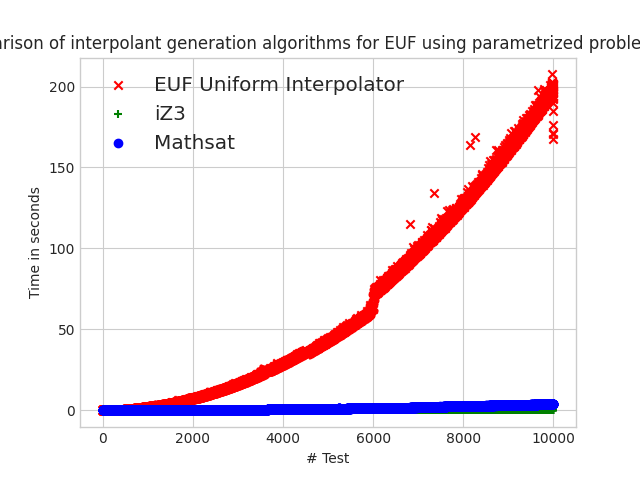
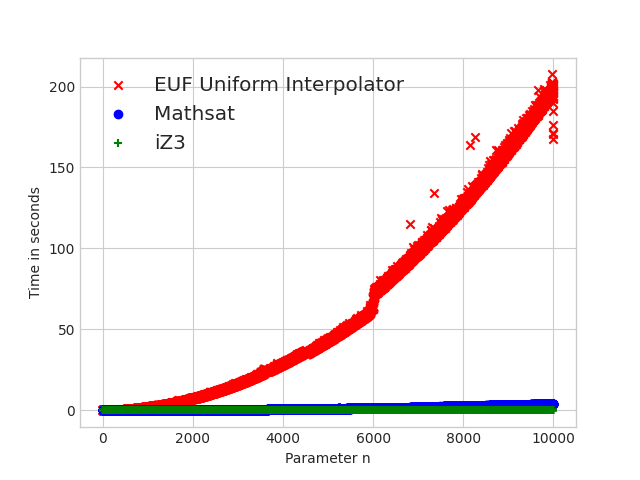
Update information about performance comparison graph in EUF.

diff --git a/Software/Cpp/EUFInterpolant/plotter.py b/Software/Cpp/EUFInterpolant/plotter.py
@@ -61,13 +61,45 @@ data_eufi = parse_info_chunks([
 
 fig, ax = plt.subplots()
 ax.scatter(steps, data_eufi, marker='x', color='red', label='EUF Uniform Interpolator')
-ax.scatter(steps, data_iz3, marker='+', color='green', label='iZ3')
 ax.scatter(steps, data_mathsat, marker='o', color='blue', label='Mathsat')
+ax.scatter(steps, data_iz3, marker='+', color='green', label='iZ3')
 
-ax.set_xlabel('# Test')
+ax.set_xlabel('Parameter n')
 ax.set_ylabel('Time in seconds')
-ax.set_title('Performance comparison of interpolant generation algorithms for EUF using parametrized problem from section 3.2.2.')
+# ax.set_title('Performance comparison of interpolant generation algorithms for EUF using parametrized problem from section 3.2.2.')
 
 legend = ax.legend(loc='upper left', shadow=True, fontsize='x-large')
 
 plt.savefig("results/eufi_performance_graph.png")
+
+fit_iz3_deg_2 = np.polyfit(steps, data_iz3, 2)
+fit_mathsat_deg_2 = np.polyfit(steps, data_mathsat, 2)
+fit_eufi_deg_2 = np.polyfit(steps, data_eufi, 2)
+fit_iz3_deg_1 = np.polyfit(steps, data_iz3, 1)
+fit_mathsat_deg_1 = np.polyfit(steps, data_mathsat, 1)
+fit_eufi_deg_1 = np.polyfit(steps, data_eufi, 1)
+
+print("Fit iz3 deg 2:")
+print(fit_iz3_deg_2)
+print("Error:")
+print(np.sum(np.polyval(fit_iz3_deg_2, steps)- data_iz3)**2)
+print("Fit iz3 deg 1:")
+print(fit_iz3_deg_1)
+print("Error:")
+print(np.sum(np.polyval(fit_iz3_deg_1, steps)- data_iz3)**2)
+print("Fit mathsat deg 2:")
+print(fit_mathsat_deg_2)
+print("Error:")
+print(np.sum(np.polyval(fit_mathsat_deg_2, steps)- data_mathsat)**2)
+print("Fit mathsat deg 1:")
+print(fit_mathsat_deg_1)
+print("Error:")
+print(np.sum(np.polyval(fit_mathsat_deg_1, steps)- data_mathsat)**2)
+print("Fit eufi deg 2:")
+print(fit_eufi_deg_2)
+print("Error:")
+print(np.sum(np.polyval(fit_eufi_deg_2, steps)- data_eufi)**2)
+print("Fit eufi deg 1:")
+print(fit_eufi_deg_1)
+print("Error:")
+print(np.sum(np.polyval(fit_eufi_deg_1, steps)- data_eufi)**2)
